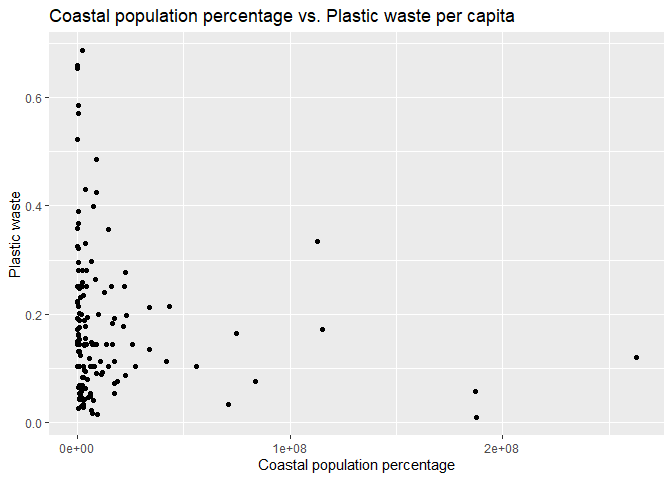
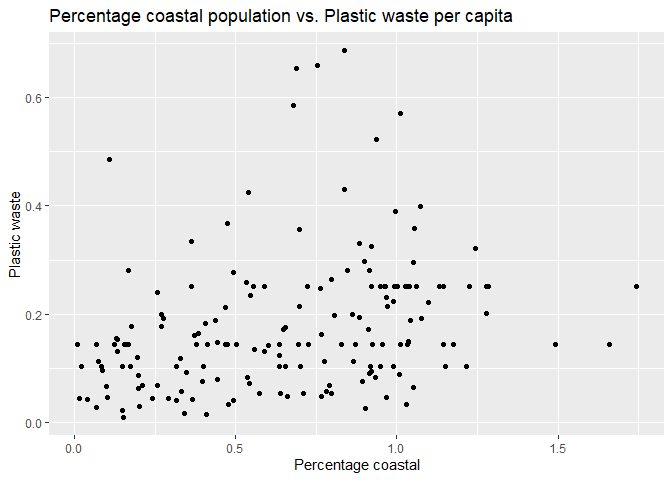
final changes for lab 2
For most of these exercises, I did them in steps, adding one element at a time. I kept those in, because I expect it will be helpful for me to see those steps later.

diff --git a/lab-02.md b/lab-02.md
@@ -340,17 +340,58 @@ ggplot(data = plastic_waste %>%
 
 ### Exercise 5
 
-Note I had trouble specifying the dataset for the analysis. I saw the
-“attach” command on-line. Is there a better way to do this?
+Recreate the following plot, and interpret what you see in context of
+the data.
+
+I did have to get some help from chatgpt on this one. The main issue was
+figuring out that I needed to have color = continent with geom_point,
+not with aes. At any rate, it looks like there is a mildly increasing
+relationship between percentage coastal and plastic waste per capita
+until you reach percentage coastal of about .7, at which point the
+relationship goes away. However, given the fewer data points greater
+than 70%, i’m not sure that is meaningful.
+
+Thinking about this more, I’m not understanding something. Doesn’t the
+x-axis indicate that in some cases, coastal population is greater than
+total population??? What am I missing?
 
 ``` r
-attach(plastic_waste)
-perc_coastal <- coastal_pop / total_pop 
-ggplot(data = plastic_waste %>%
-  filter(plastic_waste_per_cap < 3.5), mapping = aes(x = coastal_pop, y = plastic_waste_per_cap)) +
-  geom_point() +
-  labs(title = "Coastal population percentage vs. Plastic waste per capita",
-       x = "Coastal population percentage", y = "Plastic waste")
+plastic_waste$perc_coastal <- plastic_waste$coastal_pop / plastic_waste$total_pop
+ggplot((data = plastic_waste) %>%
+    filter(plastic_waste_per_cap < 3.5), mapping = aes(x = perc_coastal, y = plastic_waste_per_cap)) +
+    geom_point( ) +
+    labs(title = "Percentage coastal population vs. Plastic waste per capita",
+       x = "Percentage coastal", y = "Plastic waste")
 ```
 
+    ## Warning: Removed 10 rows containing missing values (`geom_point()`).
+
 ![](lab-02_files/figure-gfm/plastic-waste-mismanaged-continent-1.png)<!-- -->
+
+``` r
+ggplot((data = plastic_waste) %>%
+    filter(plastic_waste_per_cap < 3.5), mapping = aes(x = perc_coastal, y = plastic_waste_per_cap, color = continent)) +
+    geom_point( ) +
+    labs(title = "Percentage coastal population vs. Plastic waste per capita",
+       x = "Percentage coastal", y = "Plastic waste")
+```
+
+    ## Warning: Removed 10 rows containing missing values (`geom_point()`).
+
+![](lab-02_files/figure-gfm/plastic-waste-mismanaged-continent-2.png)<!-- -->
+
+``` r
+ggplot((data = plastic_waste) %>%
+    filter(plastic_waste_per_cap < 3.5), mapping = aes(x = perc_coastal, y = plastic_waste_per_cap)) +
+    geom_point(aes(color = continent)) +
+    geom_smooth( ) +
+    labs(title = "Percentage coastal population vs. Plastic waste per capita",
+       x = "Percentage coastal", y = "Plastic waste")
+```
+
+    ## `geom_smooth()` using method = 'loess' and formula = 'y ~ x'
+
+    ## Warning: Removed 10 rows containing non-finite values (`stat_smooth()`).
+    ## Removed 10 rows containing missing values (`geom_point()`).
+
+![](lab-02_files/figure-gfm/plastic-waste-mismanaged-continent-3.png)<!-- -->
